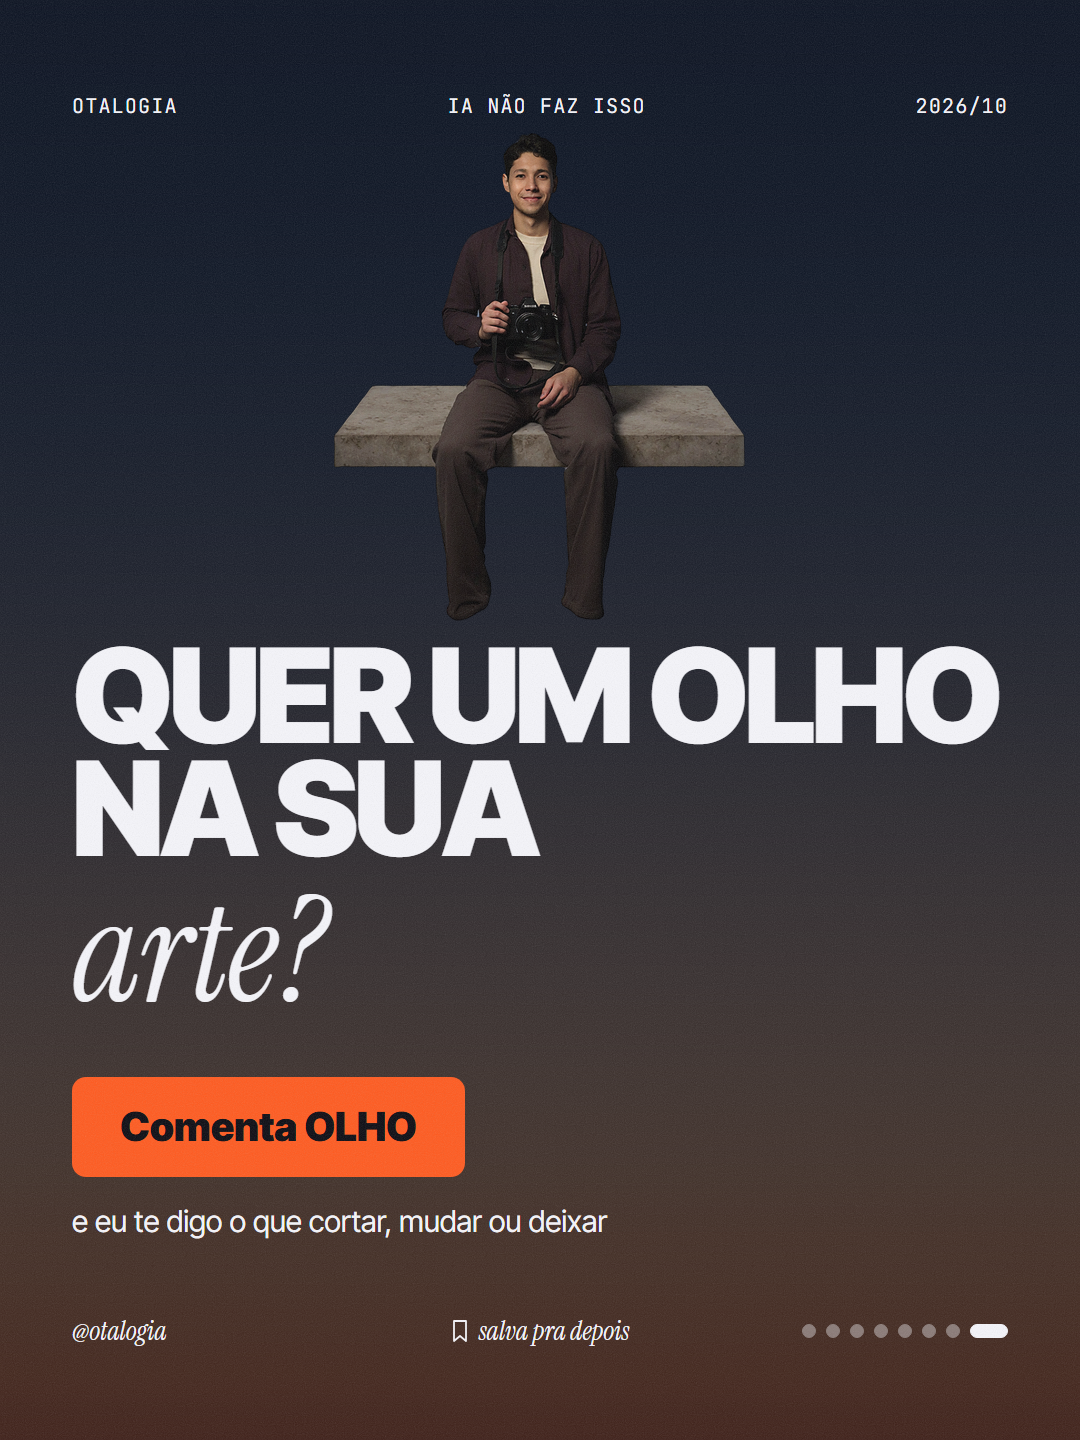
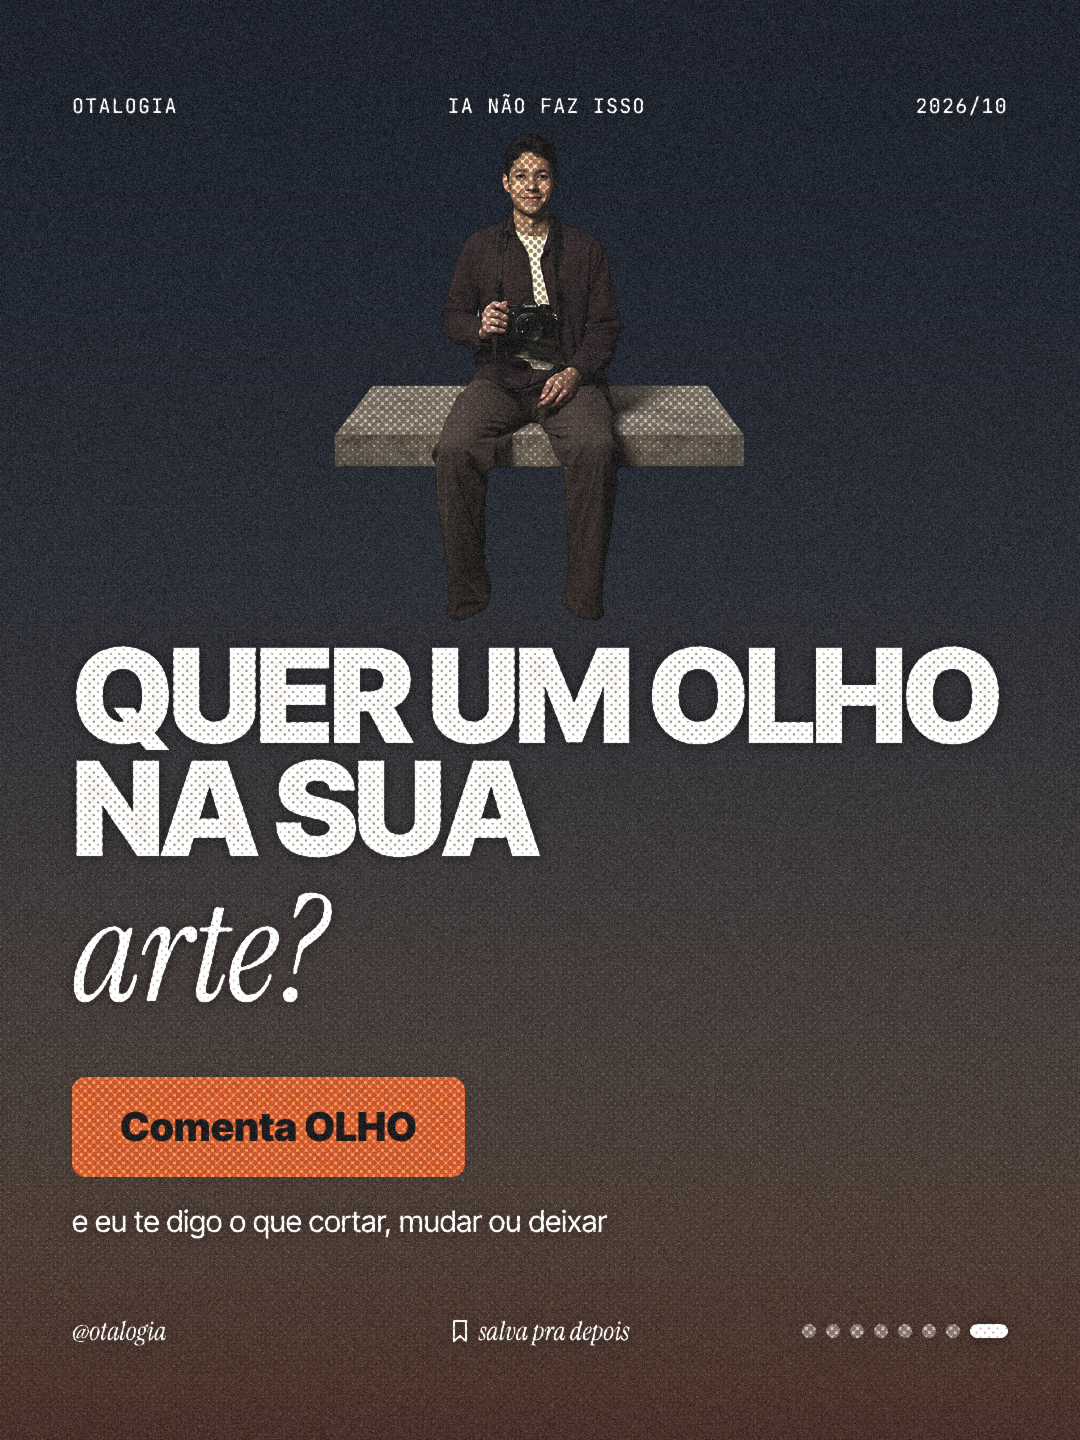
feat(motor): halftone no slide CTA inteiro (letras incluídas)
- motor/filtro_halftone.py (o mesmo filtro da engine aidealab)
- render.py: "halftone_cta": true no tema aplica o halftone no PNG do último slide
- tema otalogia liga; os 18 CTAs re-renderizados
- automation/atualizar_cta_drive.py + workflow atualizar-cta-drive.yml: sobe o CTA
  novo para as pastas já enviadas ao Drive (04 e 06), como nova revisão

Claude-Session: https://claude.ai/code/session_012KyAE6tAMb32gBy6Q61w6r

diff --git a/motor/filtro_halftone.py b/motor/filtro_halftone.py
@@ -1,0 +1,39 @@
+"""
+Filtro "impresso halftone" (ref. post HALFTONE TEXTURE, aprovado 2026-10-06): retícula AM fina a 45° modulando a
+luminância (média zero: o tom da foto se mantém), pretos levantados, leve dessaturação/aquecimento e grão.
+O render.py aplica no slide CTA inteiro (letras incluídas) quando o tema.json tem "halftone_cta": true.
+
+Uso: python filtro_halftone.py <entrada> [saida]   (sem saida = sobrescreve)
+"""
+import sys
+
+import numpy as np
+from PIL import Image, ImageFilter
+
+
+def halftone(im, cell=6, ang=45, forca=0.45, grao=0.035, seed=7):
+    rgb = np.asarray(im.convert("RGB")).astype(float) / 255
+    h, w = rgb.shape[:2]
+    cell = cell * w / 1080
+    lum = rgb @ [0.2126, 0.7152, 0.0722]
+    yy, xx = np.mgrid[0:h, 0:w].astype(float)
+    a = np.deg2rad(ang)
+    u = (xx * np.cos(a) + yy * np.sin(a)) / cell
+    v = (-xx * np.sin(a) + yy * np.cos(a)) / cell
+    d = np.hypot(u - np.round(u), v - np.round(v)) / 0.7071          # 0 centro .. 1 canto da célula
+    tela = np.clip((d ** 2 - (1 - lum)) * cell * 0.9 + 0.5, 0, 1)      # 1 = papel, 0 = tinta (ponto cresce na sombra)
+    media = np.asarray(Image.fromarray((tela * 255).astype("uint8")).filter(ImageFilter.GaussianBlur(cell))) / 255
+    out = rgb * (1 + forca * (tela - media) * 1.6)[..., None]
+    g = out @ [0.2126, 0.7152, 0.0722]
+    out = out * 0.85 + g[..., None] * 0.15                              # dessatura um pouco
+    out = 0.035 + out * 0.95 * np.array([1.0, 0.985, 0.95])             # pretos levantados, tinta quente
+    out += np.random.default_rng(seed).normal(0, grao, (h, w))[..., None]
+    res = Image.fromarray((out.clip(0, 1) * 255).astype("uint8"))
+    return res.filter(ImageFilter.GaussianBlur(0.35 * w / 1080))
+
+
+if __name__ == "__main__":
+    if len(sys.argv) < 2:
+        sys.exit(__doc__)
+    halftone(Image.open(sys.argv[1])).save(sys.argv[2] if len(sys.argv) > 2 else sys.argv[1])
+    print("OK:", sys.argv[-1])

diff --git a/automation/atualizar_cta_drive.py b/automation/atualizar_cta_drive.py
@@ -1,0 +1,47 @@
+"""Atualiza no Drive o slide CTA (último PNG) dos carrosséis da otalogia já enviados, com o render atual do repo
+(halftone no CTA inteiro). Procura a pasta pelo nome do carrossel em Clientes/otalogia/04-Carrosseis e em
+06-Aprovados-para-Postar (e nas subpastas dela) e sobe o PNG como nova revisão do mesmo arquivo (o histórico do
+Drive guarda a versão anterior). Roda no GitHub Actions (workflow atualizar-cta-drive.yml, secrets GOOGLE_DRIVE_*).
+
+Uso: python automation/atualizar_cta_drive.py [--dry-run]
+"""
+import json
+import sys
+from pathlib import Path
+
+from googleapiclient.http import MediaFileUpload
+
+sys.path.insert(0, str(Path(__file__).parent))
+from upload_drive import achar, filhos, servico  # noqa: E402
+
+DRY = "--dry-run" in sys.argv
+
+
+def main():
+    svc = servico()
+    pastas = dict(filhos(svc, achar(svc, "Clientes/otalogia/04-Carrosseis"), True))
+    seis = achar(svc, "Clientes/otalogia/06-Aprovados-para-Postar")
+    for nome, pid in filhos(svc, seis, True).items():
+        pastas.setdefault(nome, pid)
+        for sub, sid in filhos(svc, pid, True).items():  # FILA/POSTADOS, se existirem
+            pastas.setdefault(sub, sid)
+    feitos = 0
+    for d in sorted(Path("carrosseis").iterdir()):
+        cj = d / "carrossel.json"
+        if not cj.exists() or d.name not in pastas:
+            continue
+        cta = f"slide-{len(json.loads(cj.read_text(encoding='utf-8'))['slides']):02d}.png"
+        local = d / "png" / cta
+        fid = filhos(svc, pastas[d.name]).get(cta)
+        if not local.exists() or not fid:
+            print("pula:", d.name, cta, "(sem arquivo local ou no Drive)")
+            continue
+        print("CTA:", d.name, cta)
+        if not DRY:
+            svc.files().update(fileId=fid, media_body=MediaFileUpload(str(local), mimetype="image/png")).execute()
+        feitos += 1
+    print("total:", feitos)
+
+
+if __name__ == "__main__":
+    main()

diff --git a/motor/render.py b/motor/render.py
@@ -21,6 +21,8 @@ from pathlib import Path
 from PIL import Image
 from playwright.sync_api import sync_playwright
 
+from filtro_halftone import halftone
+
 W, H = 1080, 1440
 AQUI = Path(__file__).resolve().parent
 
@@ -108,6 +110,8 @@ def main():
     for i, b in enumerate(shots, 1):
         png = out_dir / f"slide-{i:02d}.png"
         png.write_bytes(b)
+        if tema.get("halftone_cta") and i == len(shots):  # halftone no CTA inteiro, letras incluídas
+            halftone(Image.open(png)).save(png)
         pngs.append(png)
     for png in pngs:
         assert Image.open(png).size == (W, H), f"{png} fora de {W}x{H}"

diff --git a/design-system/templates/templates.md b/design-system/templates/templates.md
@@ -75,6 +75,7 @@ Prova, números, processo, listas.
 - Fundo: **foto escurecida 70% (obrigatória)**: sangrada, com véu ink `#0B0B12` chapado a 70% (sem gradiente) e grão por cima; o resto do layout é o mesmo. `imagem: null` usa o placeholder de crepúsculo sob o mesmo véu, com aviso.
 - Headline de convite com a dupla display + serifada laranja.
 - Pill CTA: fundo laranja, texto ink, Inter Tight 900 30px, cantos de 14px. Ação de palavra-comentário ("Comenta EDITAR que eu te mando…") ou salvar/compartilhar.
+- Textura halftone de impresso no slide inteiro, letras incluídas (`motor/filtro_halftone.py`, aprovado 2026-10-08). O `render.py` aplica sozinho pelo `"halftone_cta": true` do `tema.json`.
 
 ## Arco do carrossel (padrão 7-9 slides)
 
